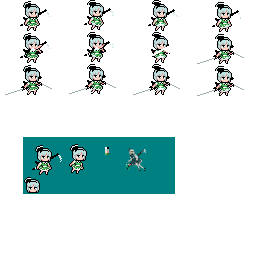
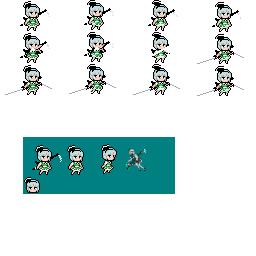
add:myon position

Changed region(s): [[0.25, 0.5625, 0.3438, 0.6875], [0.375, 0.5625, 0.4688, 0.6875]]

diff --git a/js/canvas.js b/js/canvas.js
@@ -4,8 +4,7 @@ class Canvas {
         this.cx = this.canvas.getContext("2d", { alpha: false });
         this.lastTime = null;
         this.drawFrame = (time, zoom) => {
-            this.drawBackgorund();
-            this.drawVisibility(this.game.player);
+            this.drawBackground();
             this.drawPlayer(this.game.player);
             if (this.lastTime)
                 this.hud(time);
@@ -40,42 +39,8 @@ class Canvas {
                 }
             }
         };
-        this.drawVisibility = (player) => {
-            var centerX = player.pos.x + player.size.x / 2;
-            var centerY = player.pos.y + player.size.y / 2;
-            this.cx.lineWidth = 1 / this.zoom;
-            this.cx.strokeStyle = "#f00";
-            this.cx.beginPath();
-            this.cx.arc(centerX, centerY, player.visibilityRadius, 0, 2 * Math.PI);
-            this.cx.stroke();
-            this.cx.strokeStyle = "#0f0";
-            this.cx.beginPath();
-            this.cx.arc(centerX, centerY, player.visibilityRadius / 0.75, 0, 2 * Math.PI);
-            this.cx.stroke();
-            if (player.myon) {
-                var myonX = player.myon.pos.x + player.myon.size.x / 2;
-                var myonY = player.myon.pos.y + player.myon.size.y / 2;
-                this.cx.strokeStyle = "#0f0";
-                this.cx.beginPath();
-                this.cx.arc(myonX, myonY, this.game.player.visibilityRadius / 2, 0, 2 * Math.PI);
-                this.cx.stroke();
-                this.cx.strokeStyle = "#f00";
-                this.cx.beginPath();
-                this.cx.arc(myonX, myonY, this.game.player.visibilityRadius / 3, 0, 2 * Math.PI);
-                this.cx.stroke();
-            }
-            var check_a_point = (a, b, x, y, r) => (a - x) * (a - x) + (b - y) * (b - y) < r * r;
-            // this.cx.fillStyle = "#000";
-            // for (let i = 0; i < this.game.size.y; i++) {
-            // 	for (let j = 0; j < this.game.size.x; j++) {
-            // 		if (!check_a_point(j, i, centerX, centerY, player.visibilityRadius / 2) && ((i % 2 === 0 && j % 2 !== 0) || (i % 2 !== 0 && j % 2 === 0))) this.cx.fillRect(j, i, 1, 1);
-            // 		else if (!check_a_point(j, i, centerX, centerY, player.visibilityRadius)) this.cx.fillRect(j, i, 1, 1);
-            // 	}
-            // }
-        };
-        this.drawBackgorund = () => {
-            this.cx.fillStyle = "#112";
-            this.cx.fillRect(0, 0, this.canvas.width, this.canvas.height);
+        this.drawBackground = () => {
+            this.cx.clearRect(0, 0, this.canvas.width, this.canvas.height);
         };
         this.drawMagic = (posX, posY) => {
             var magic = document.createElement("img");
@@ -98,23 +63,11 @@ class Canvas {
             this.cx.drawImage(shadow, spriteX * width, 3 * height, width, height, centerX - width / 2 - amplitude, centerY - height / 2 - amplitude / 2, width + amplitude * 2, height + amplitude);
         };
         this.drawMyon = (myon) => {
-            var Xperiod = 0.1;
-            var Xamplitude = Math.sin(this.animationTime * 0.01) * 32;
-            this.cx.fillStyle = "#fff";
-            this.cx.textAlign = "left";
-            this.cx.font = "16px rcr";
-            var myonX = myon.pos.x + Math.cos(this.animationTime * Xperiod) * Xamplitude;
-            var Yperiod = 0.1;
-            var Yamplitude = Math.cos(this.animationTime * 0.01) * 32;
-            var myonY = myon.pos.y + Math.sin(this.animationTime * Yperiod) * Yamplitude;
             var size = myon.radius;
             this.cx.fillStyle = "#fff";
             this.cx.beginPath();
-            this.cx.arc(myonX, myonY, size, 0, 2 * Math.PI);
+            this.cx.arc(myon.pos.x, myon.pos.y, size, 0, 2 * Math.PI);
             this.cx.fill();
-            if (myon.posHystory.length > 10)
-                myon.posHystory.splice(0, 1);
-            myon.posHystory.push([myonX, myonY]);
             myon.posHystory.forEach((myonPart, i) => {
                 this.cx.beginPath();
                 this.cx.arc(myonPart[0], myonPart[1], size - (10 - i) / 10 * size, 0, 2 * Math.PI);

diff --git a/ts/canvas.ts b/ts/canvas.ts
@@ -21,8 +21,7 @@ class Canvas {
 	}
 
 	public drawFrame = (time: number, zoom: number): void => {
-		this.drawBackgorund();
-		this.drawVisibility(this.game.player);
+		this.drawBackground();
 		this.drawPlayer(this.game.player);
 
 		if (this.lastTime) this.hud(time);
@@ -62,46 +61,8 @@ class Canvas {
 		}
 	}
 
-	public drawVisibility = (player: Player) => {
-		var centerX: number = player.pos.x + player.size.x / 2;
-		var centerY: number = player.pos.y + player.size.y / 2;
-		this.cx.lineWidth = 1 / this.zoom;
-		this.cx.strokeStyle = "#f00";
-		this.cx.beginPath();
-		this.cx.arc(centerX, centerY, player.visibilityRadius, 0, 2 * Math.PI);
-		this.cx.stroke();
-		this.cx.strokeStyle = "#0f0";
-		this.cx.beginPath();
-		this.cx.arc(centerX, centerY, player.visibilityRadius / 0.75, 0, 2 * Math.PI);
-		this.cx.stroke();
-
-		if (player.myon) {
-			var myonX: number = player.myon.pos.x + player.myon.size.x / 2;
-			var myonY: number = player.myon.pos.y + player.myon.size.y / 2;
-			this.cx.strokeStyle = "#0f0";
-			this.cx.beginPath();
-			this.cx.arc(myonX, myonY, this.game.player.visibilityRadius / 2, 0, 2 * Math.PI);
-			this.cx.stroke();
-			this.cx.strokeStyle = "#f00";
-			this.cx.beginPath();
-			this.cx.arc(myonX, myonY, this.game.player.visibilityRadius / 3, 0, 2 * Math.PI);
-			this.cx.stroke();
-		}
-
-		var check_a_point = (a: number, b: number, x: number, y: number, r: number): boolean => (a - x) * (a - x) + (b - y) * (b - y) < r * r;
-
-		// this.cx.fillStyle = "#000";
-		// for (let i = 0; i < this.game.size.y; i++) {
-		// 	for (let j = 0; j < this.game.size.x; j++) {
-		// 		if (!check_a_point(j, i, centerX, centerY, player.visibilityRadius / 2) && ((i % 2 === 0 && j % 2 !== 0) || (i % 2 !== 0 && j % 2 === 0))) this.cx.fillRect(j, i, 1, 1);
-		// 		else if (!check_a_point(j, i, centerX, centerY, player.visibilityRadius)) this.cx.fillRect(j, i, 1, 1);
-		// 	}
-		// }
-	}
-
-	public drawBackgorund = () => {
-		this.cx.fillStyle = "#112";
-		this.cx.fillRect(0, 0, this.canvas.width, this.canvas.height);
+	public drawBackground = () => {
+		this.cx.clearRect(0, 0, this.canvas.width, this.canvas.height);
 	}
 
 	public drawMagic = (posX: number, posY: number) => {
@@ -137,27 +98,13 @@ class Canvas {
 	}
 
 	public drawMyon = (myon: Myon): void => {
-
-		var Xperiod = 0.1;
-		var Xamplitude = Math.sin(this.animationTime * 0.01) * 32;
-		this.cx.fillStyle = "#fff";
-		this.cx.textAlign = "left";
-		this.cx.font = "16px rcr";
-		var myonX = myon.pos.x + Math.cos(this.animationTime * Xperiod) * Xamplitude;
-
-		var Yperiod = 0.1;
-		var Yamplitude = Math.cos(this.animationTime * 0.01) * 32;
-		var myonY = myon.pos.y + Math.sin(this.animationTime * Yperiod) * Yamplitude;
-
 		var size = myon.radius;
 
 		this.cx.fillStyle = "#fff";
 		this.cx.beginPath();
-		this.cx.arc(myonX, myonY, size, 0, 2 * Math.PI);
+		this.cx.arc(myon.pos.x, myon.pos.y, size, 0, 2 * Math.PI);
 		this.cx.fill();
 
-		if (myon.posHystory.length > 10) myon.posHystory.splice(0, 1);
-		myon.posHystory.push([myonX, myonY]);
 		myon.posHystory.forEach((myonPart, i) => {
 			this.cx.beginPath();
 			this.cx.arc(myonPart[0], myonPart[1], size - (10 - i) / 10 * size, 0, 2 * Math.PI);

diff --git a/js/player.js b/js/player.js
@@ -71,6 +71,10 @@ class Player extends Actor {
                         game.step /= 2;
                         this.stepModifier *= 2;
                         this.animationKey *= 2;
+                        if (this.myon) {
+                            this.myon.stepModifier *= 2;
+                            this.myon.animationKey *= 2;
+                        }
                     }
                 }
             }
@@ -84,11 +88,17 @@ class Player extends Actor {
                         game.step *= 2;
                         this.stepModifier /= 2;
                         this.animationKey /= 2;
+                        if (this.myon) {
+                            this.myon.stepModifier /= 2;
+                            this.myon.animationKey /= 2;
+                        }
                     }
                 }
             }
             this.moveX(game);
             this.moveY(game);
+            if (this.myon)
+                this.myon.act(game, keys);
             for (let i = 0; i < this.controls.length; i++)
                 this.controlsMemory[i] = this.controls[i];
             this.animationTime += game.step * this.stepModifier;

diff --git a/ts/player.ts b/ts/player.ts
@@ -82,6 +82,10 @@ class Player extends Actor {
                     game.step /= 2;
                     this.stepModifier *= 2;
                     this.animationKey *= 2;
+                    if (this.myon) {
+                        this.myon.stepModifier *= 2;
+                        this.myon.animationKey *= 2;
+                    }
                 }
             }
         }
@@ -95,12 +99,18 @@ class Player extends Actor {
                     game.step *= 2;
                     this.stepModifier /= 2;
                     this.animationKey /= 2;
+                    if (this.myon) {
+                        this.myon.stepModifier /= 2;
+                        this.myon.animationKey /= 2;
+                    }
                 }
             } 
         }
 
         this.moveX(game);
         this.moveY(game);
+
+        if (this.myon) this.myon.act(game, keys);
 
         for (let i = 0; i < this.controls.length; i++) this.controlsMemory[i] = this.controls[i];
 		this.animationTime += game.step * this.stepModifier;

diff --git a/ts/myon.ts b/ts/myon.ts
@@ -4,12 +4,25 @@ class Myon extends Actor {
     public radius: number = 4;
     public posHystory: Array<Array<number>> = [];
 
+    public animationTime: number = 0;
+    public animationKey: number = 0;
+    public stepModifier: number = 1;
+
     constructor(name: string, size: Vector2D, pos: Vector2D, owner: Player) {
         super(name, size, pos);
         this.owner = owner;
     }
 
     public act = (game: Game, keys: Map<string, boolean>): void  => {
+        var Xamplitude = Math.sin(this.animationTime * 0.01) * 32;
+        this.pos.x = this.owner.pos.x + this.owner.size.x / 2 + Math.cos(this.animationTime * 0.1) * Xamplitude;
+
+        var Yamplitude = Math.cos(this.animationTime * 0.01) * 32;
+        this.pos.y = this.owner.pos.y + this.owner.size.y / 2 + Math.sin(this.animationTime * 0.1) * Yamplitude;
+
+		if (this.posHystory.length > 10) this.posHystory.splice(0, 1);
+        this.posHystory.push([this.pos.x, this.pos.y]);
         
+		this.animationTime += game.step * this.stepModifier;
     }
 }

diff --git a/js/myon.js b/js/myon.js
@@ -3,7 +3,18 @@ class Myon extends Actor {
         super(name, size, pos);
         this.radius = 4;
         this.posHystory = [];
+        this.animationTime = 0;
+        this.animationKey = 0;
+        this.stepModifier = 1;
         this.act = (game, keys) => {
+            var Xamplitude = Math.sin(this.animationTime * 0.01) * 32;
+            this.pos.x = this.owner.pos.x + this.owner.size.x / 2 + Math.cos(this.animationTime * 0.1) * Xamplitude;
+            var Yamplitude = Math.cos(this.animationTime * 0.01) * 32;
+            this.pos.y = this.owner.pos.y + this.owner.size.y / 2 + Math.sin(this.animationTime * 0.1) * Yamplitude;
+            if (this.posHystory.length > 10)
+                this.posHystory.splice(0, 1);
+            this.posHystory.push([this.pos.x, this.pos.y]);
+            this.animationTime += game.step * this.stepModifier;
         };
         this.owner = owner;
     }
